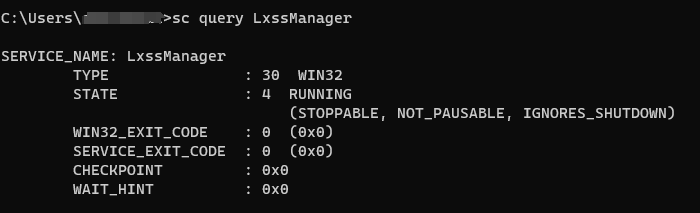
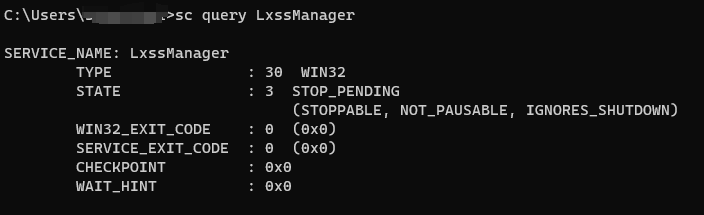
add x509.md

diff --git a/content/tech/notes/docker/x509.md b/content/tech/notes/docker/x509.md
@@ -1,0 +1,52 @@
+---
+title: "Docker 登录私有仓库时报错提示 X509: certificate signed by unknown authority"
+date: 2023-11-17T17:36:01+08:00
+lastmod: 2023-11-17T17:36:01+08:00
+author: ["Ruff"]
+keywords: 
+- 
+categories: # 没有分类界面可以不填写
+- 
+tags: # 标签
+- 
+description: ""
+weight:
+slug: ""
+draft: false # 是否为草稿
+comments: false # 本页面是否显示评论
+reward: false # 打赏
+mermaid: true #是否开启mermaid
+showToc: true # 显示目录
+TocOpen: true # 自动展开目录
+hidemeta: false # 是否隐藏文章的元信息，如发布日期、作者等
+disableShare: true # 底部不显示分享栏
+showbreadcrumbs: true #顶部显示路径
+cover:
+    image: "" #图片路径例如：posts/tech/123/123.png
+    zoom: # 图片大小，例如填写 50% 表示原图像的一半大小
+    caption: "" #图片底部描述
+    alt: ""
+    relative: false
+---
+
+## 问题
+
+在进行 `docker login` 时，报错x509错误
+![11](error.png)
+
+检查私有仓库配置
+```shell
+sudo vi /etc/docker/daemon.json
+```
+``` config
+{
+        "insecure-registries": ["私有仓库地址"]
+}
+```
+
+根据系统选择合适的命令重启docker服务
+```shell
+sudo systemctl restart docker 
+# init
+sudo service docker restart
+```

diff --git a/content/tech/notes/win10/wsl.md b/content/tech/notes/win10/wsl.md
@@ -29,7 +29,7 @@ cover:
     relative: false
 ---
 
-# 问题
+## 问题
 
 运行 `wsl` 时无响应，无奈只能 `CTRL+C`
 ![11](wsl.png)
@@ -46,7 +46,7 @@ cover:
 
 此时可以正常执行 `wsl -l -v` 等相关命令。
 
-# LxssManager 简介
+## LxssManager 简介
 
 服务管理器中对 `LxssManager` 的描述
 > LXSS Manager 服务支持运行本机 ELF 二进制文件。该服务提供在 Windows 上运行 ELF 二进制文件所需的基础结构。如果停止或禁用该服务，这些二进制文件将不再运行。
